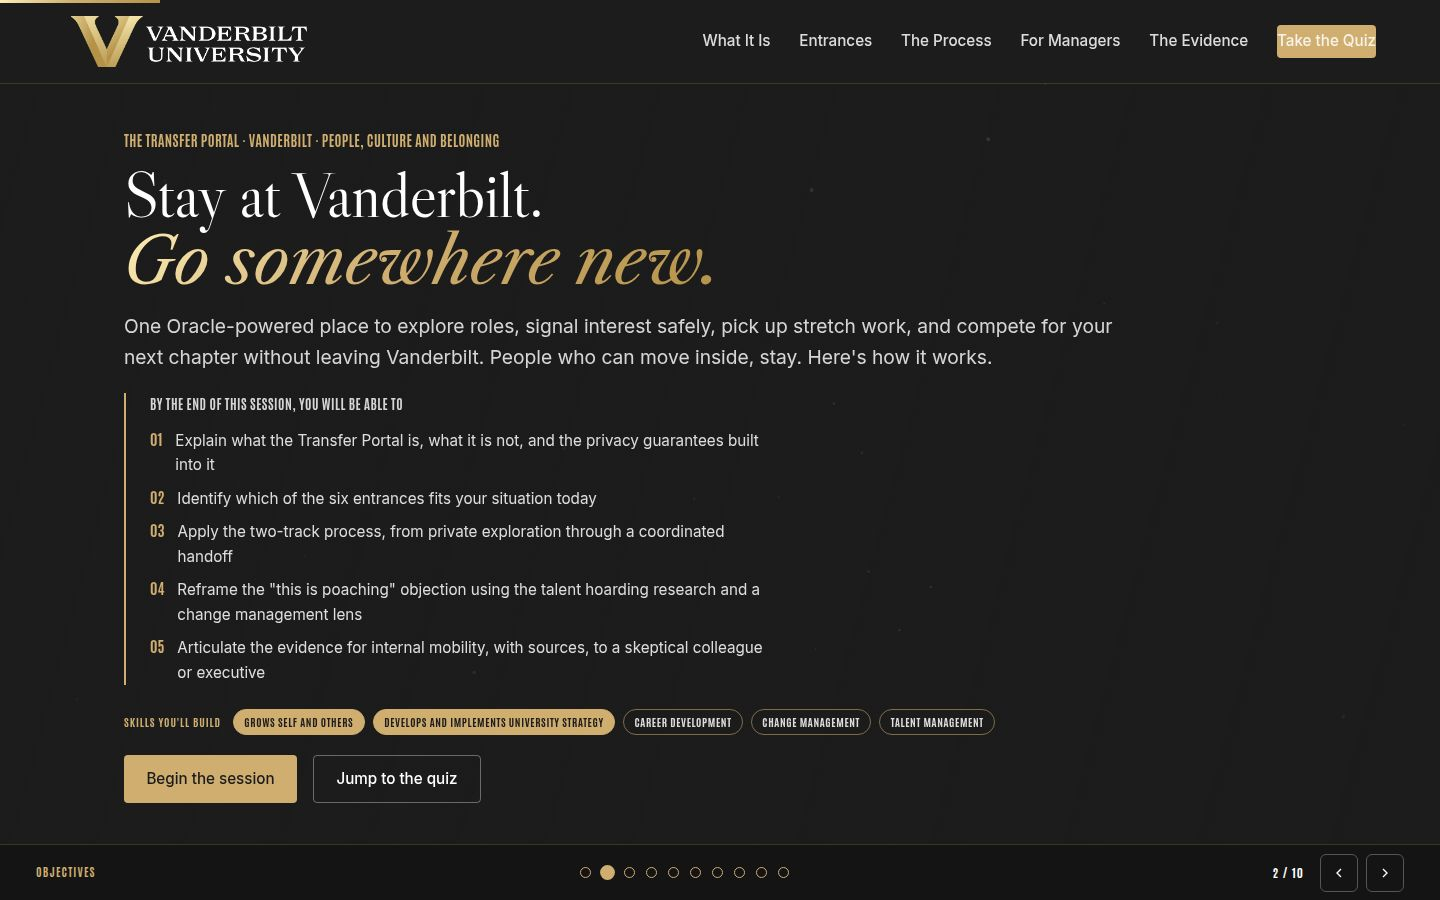
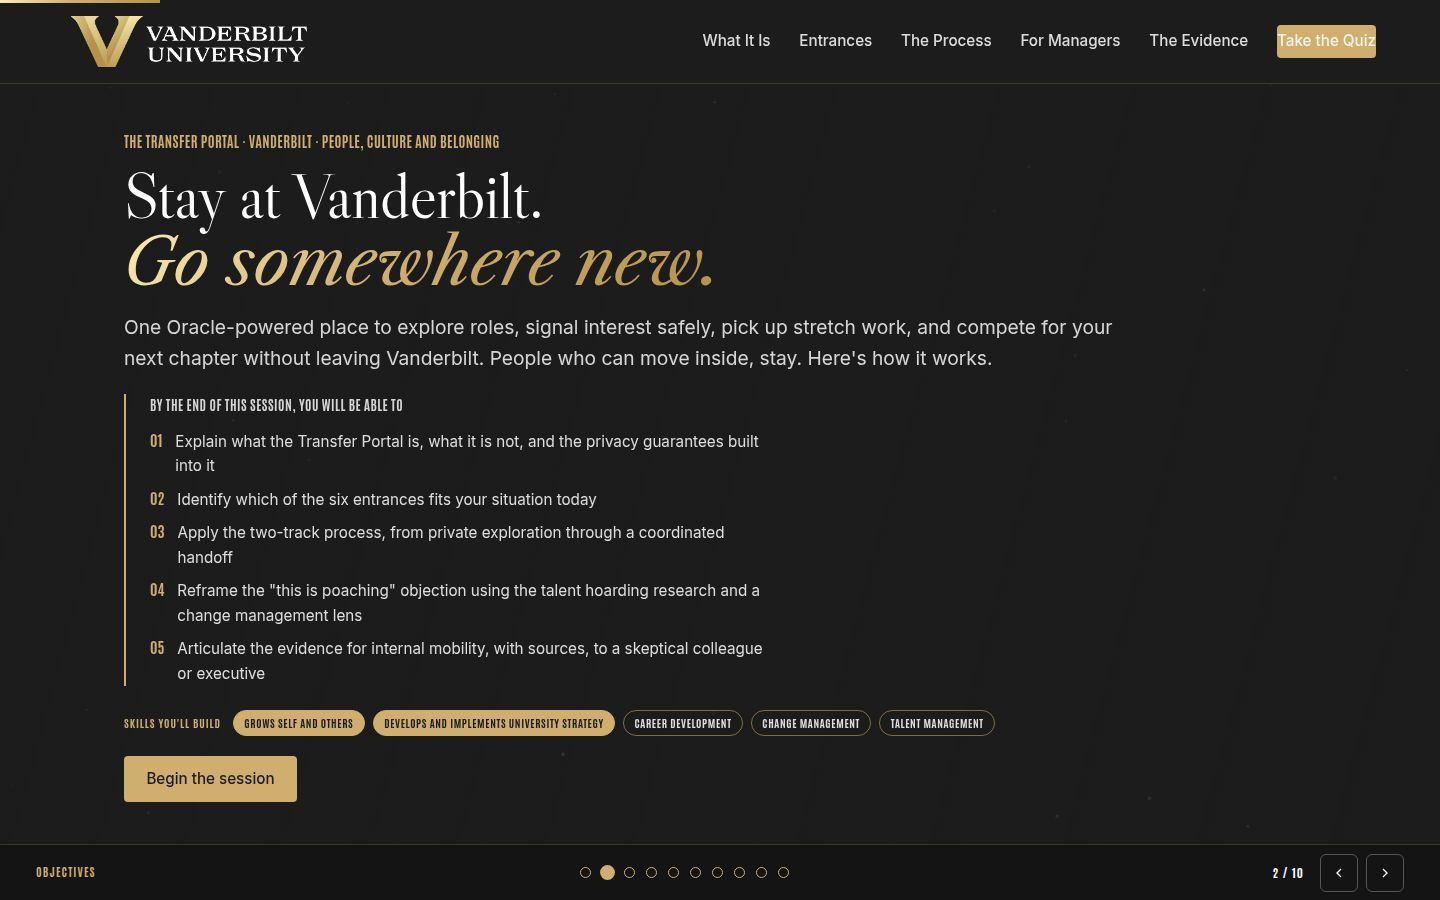
Remove the hero's Jump to the quiz button
Claude-Session: https://claude.ai/code/session_013tDBVkmLuRfSx6Efv12VME

diff --git a/facilitator/index.html b/facilitator/index.html
@@ -290,7 +290,6 @@ body.fac-hide .facshow { display: inline-flex; }
       </div>
       <div class="hero__cta" data-reveal>
         <a class="btn" href="#s-what">Begin the session</a>
-        <a class="btn btn--ghost" href="#s-recap">Jump to the quiz</a>
       </div>
     </div>
     <aside class="facnote" aria-label="Facilitator notes"><div class="facnote__head"><span>Facilitator script</span><span class="facnote__time">Full 1 min · Core skip</span><button class="facnote__hide" type="button" aria-label="Hide the facilitator script">Hide</button></div><p class="facnote__purpose">Set the contract in one breath.</p><div class="facnote__blk"><span class="facnote__tag t-say">Say</span><p class="facnote__script">&ldquo;Five things in fifteen minutes: what the portal is and what it guarantees, your entrance, the process, the manager conversation, and the numbers. It ends with a first move card you date.&rdquo;</p></div><div class="facnote__blk"><span class="facnote__tag t-do">Do</span><ol class="facnote__steps"><li>Paraphrase the objectives in one breath.</li><li>Name the anchors once: powered by Oracle, built by People, Culture and Belonging.</li></ol></div><p class="facnote__meta"><b>Validate:</b> None needed.</p><p class="facnote__meta"><b>Watch for:</b> Reading the list verbatim; paraphrase it.</p><div class="facnote__blk"><span class="facnote__tag t-tra">Transition</span><p class="facnote__script">&ldquo;First, what it actually is.&rdquo;</p></div><p class="facnote__meta facnote__core"><b>60-min core:</b> Core: skip; the deck carries it.</p></aside>

diff --git a/index.html b/index.html
@@ -193,7 +193,6 @@
       </div>
       <div class="hero__cta" data-reveal>
         <a class="btn" href="#s-what">Begin the session</a>
-        <a class="btn btn--ghost" href="#s-recap">Jump to the quiz</a>
       </div>
     </div>
   </section>

diff --git a/web/index.html b/web/index.html
@@ -173,7 +173,6 @@
       </div>
       <div class="hero__cta" data-reveal>
         <a class="btn" href="#s-what">Begin the session</a>
-        <a class="btn btn--ghost" href="#s-recap">Jump to the quiz</a>
       </div>
     </div>
   </section>
